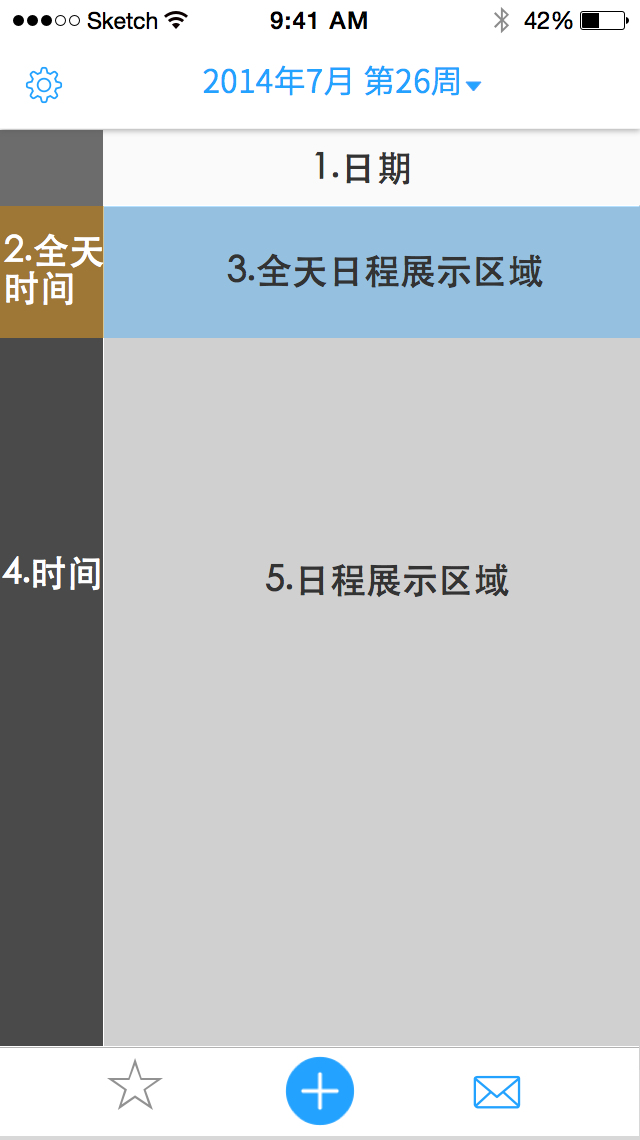
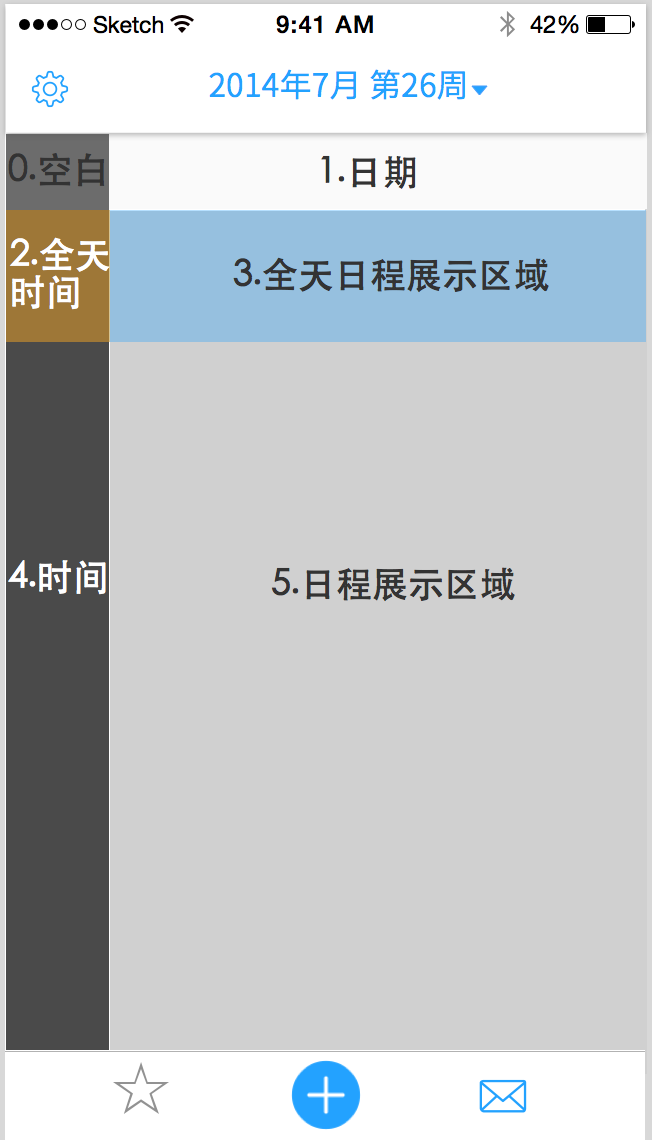
add week view

Changed region(s): [[0.0, 0.0, 1.0, 1.0], [0.4062, 0.4912, 0.8125, 0.5526]]

diff --git a/project/prd/calendar.html b/project/prd/calendar.html
@@ -89,11 +89,11 @@
 			<p>周视图提供左右滑动和上下滑动的交互方式，并且支持点击视图中时间添加日程。</p>
 
 			<div class="img_bc">
-				<span><img src="./img/week_view_mark_1.png" class="chart_img"></span>
+				<span><img src="./img/week_view_mark_1.png" class="ui_img"></span>
 			</div>
 
 			<ol>
-				<li>周视图存在5个可操作的区域</li>
+				<li>周视图存在6个区域</li>
 				<ul>
 					<li>区域1展示3天的日期</li>
 					<li>区域2显示“全天这两个字”</li>
@@ -103,7 +103,7 @@
 				</ul>
 				<li>各个区域的交互方式如下：</li>
 				<ul>
-					<li>区域的图层高度为1>2>3>4>5</li>
+					<li>区域的图层高度为0>1>2>3>4>5</li>
 					<li>区域4、5可以上线滑动</li>
 					<li>区域1、3、5可以左右滑动</li>
 				</ul>
@@ -116,7 +116,8 @@
 			</div>
 
 			<ol>
-
+				<li>区域1背景色为#FAFAFA，和月视图对应区域颜色一致</li>
+				<li>“今天”的背景和文字均采用<strong>蓝色</strong>，颜色值如上图所示.</li>
 			</ol>
 
 
